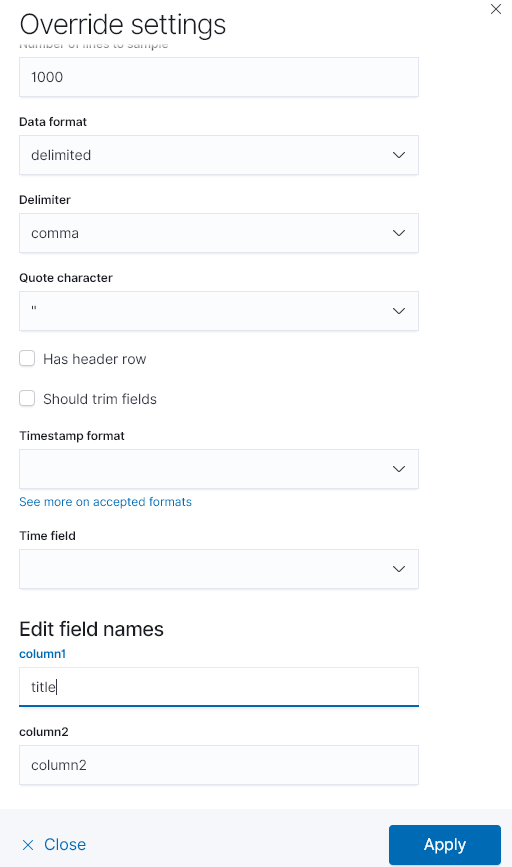
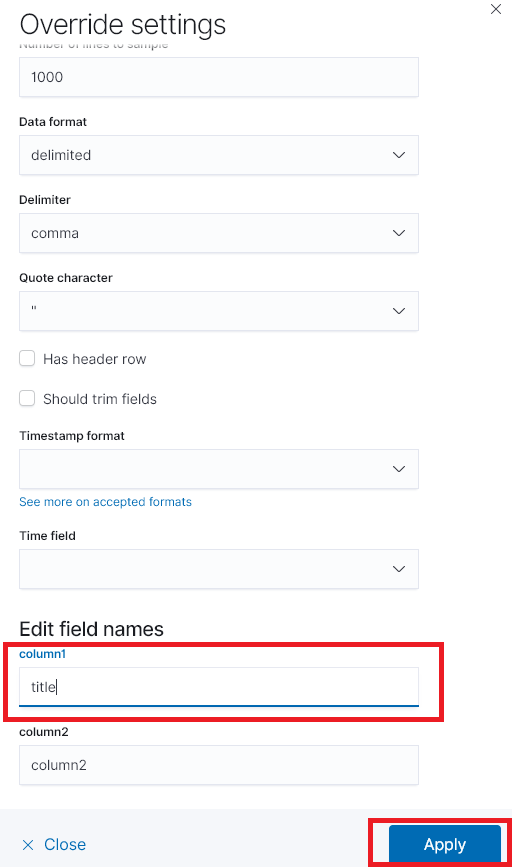
이미지 및 문단 수정

Changed region(s): [[0.0, 0.7163, 0.875, 0.8408], [0.7188, 0.9343, 1.0, 1.0]]

diff --git a/_posts/2020-05-21-Elasticsearch-SuggestApi.md b/_posts/2020-05-21-Elasticsearch-SuggestApi.md
@@ -39,10 +39,9 @@ csv형태의 키워드 파일과 키바나에 Machine Learning탭의 Data Visual
 4. Override setting에서 컬럼명을 정해줍니다.
 ![/images/2020-05-21-Elasticsearch-SuggestApi/kibana_44.png](/images/2020-05-21-Elasticsearch-SuggestApi/kibana_44.png)
 
-5. Override setting에서 컬럼명을 정해줍니다.
 ![/images/2020-05-21-Elasticsearch-SuggestApi/kibana_55.png](/images/2020-05-21-Elasticsearch-SuggestApi/kibana_55.png)
 
-6. 인덱스명, 인덱스 셋팅과 맵핑을 각각 설정합니다.
+5. 인덱스명, 인덱스 셋팅과 맵핑을 각각 설정합니다.
 ![/images/2020-05-21-Elasticsearch-SuggestApi/kibana_66.png](/images/2020-05-21-Elasticsearch-SuggestApi/kibana_66.png)
 
 사용한 셋팅 및 맵핑입니다.
